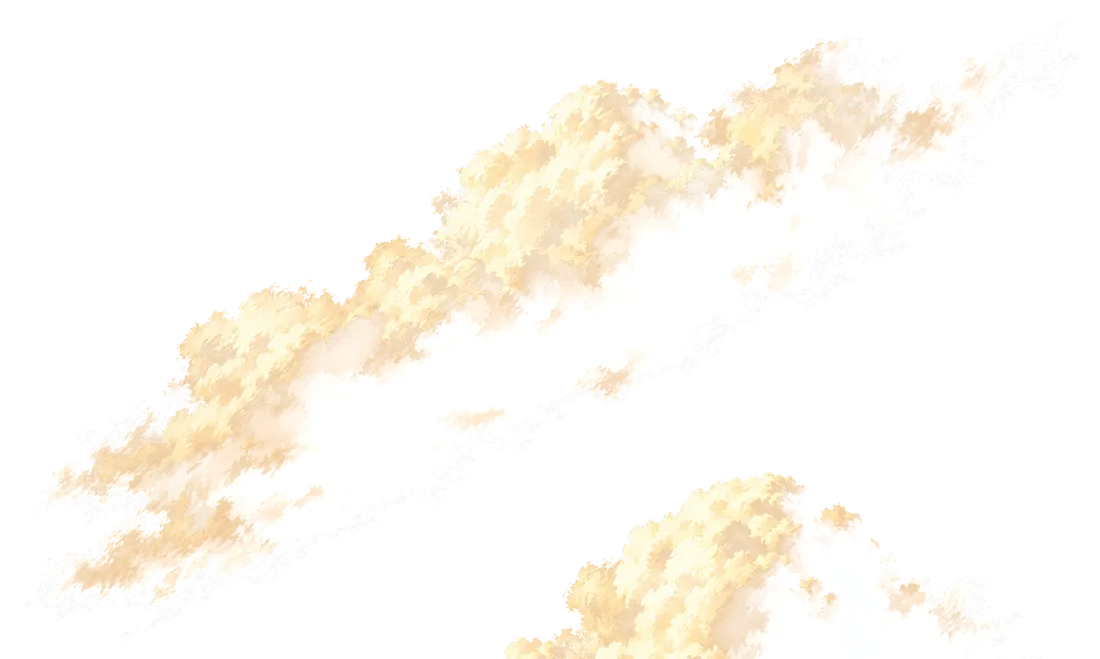
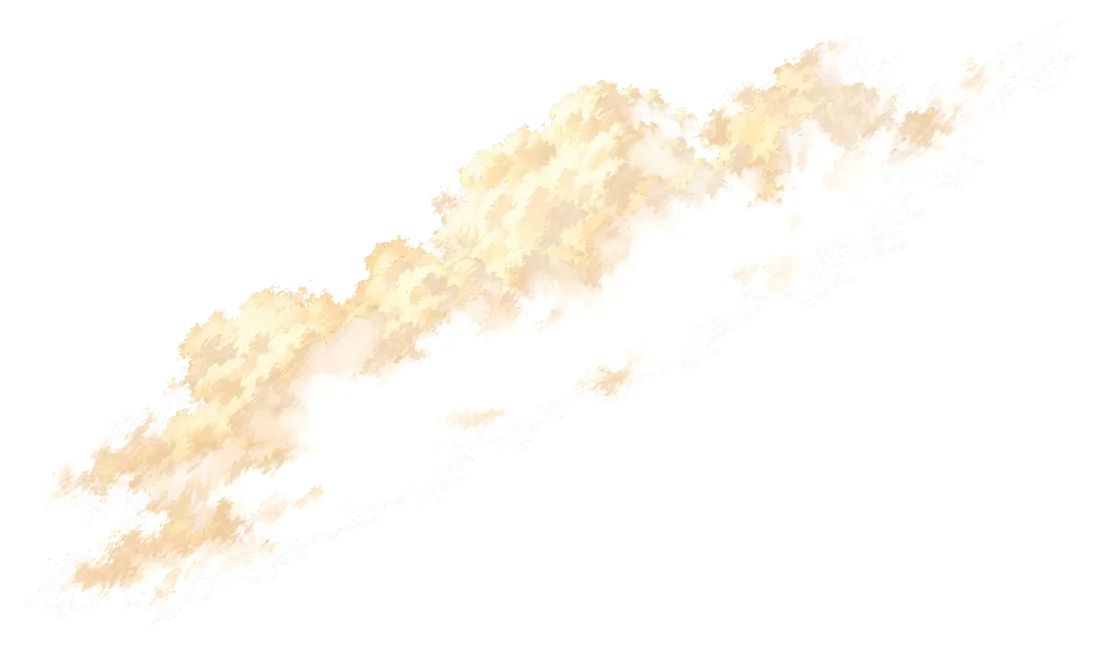
Clouds: clean the three sprites with a stray fragment, drop their masks

Changed region(s): [[0.4636, 0.698, 0.7727, 1.0], [0.8036, 0.8801, 0.8964, 0.9712]]

diff --git a/packages/ui/src/clouds.ts b/packages/ui/src/clouds.ts
@@ -98,14 +98,8 @@ const s = (name: string, w: number, h: number, mask?: string): CloudSprite => ({
 
 /** The day's three original clouds, seen from above. */
 const CLOUD = [s('cloud-day-1', 1024, 538), s('cloud-day-2', 1024, 614), s('cloud-day-3', 1024, 456)];
-/**
- * The two large billowing clouds. Each file has a stray fragment of another cloud cut by its edge
- * (day-1 bottom right, day-2 top left): masked off along the diagonal.
- */
-const BIG = [
-  s('bigcloud-day-1', 1100, 659, 'linear-gradient(to bottom right, #000 57%, transparent 63%)'),
-  s('bigcloud-day-2', 1100, 841, 'linear-gradient(to bottom right, transparent 12%, #000 20%)'),
-];
+/** The two large billowing clouds. */
+const BIG = [s('bigcloud-day-1', 1100, 659), s('bigcloud-day-2', 1100, 841)];
 const PUFF = [1, 2, 3, 4, 5, 6].map((n) => s(`puff-day-${n}`, 640, [291, 449, 375, 357, 375, 363][n - 1]!));
 const WISP = [
   s('wisp-day-1', 1200, 541),
@@ -115,12 +109,12 @@ const WISP = [
 ];
 const MIST = [s('mist-day-1', 1600, 571)];
 const FOG = [282, 410, 343, 345, 313, 361].map((h, i) => s(`fog-night-${i + 1}`, 1200, h));
-/** Night mist curls; day-4 has a fragment cut by its top right corner: masked off. */
+/** Night mist curls. */
 const CURL = [
   s('mistcurl-night-1', 800, 519),
   s('mistcurl-night-2', 800, 303),
   s('mistcurl-night-3', 768, 848),
-  s('mistcurl-night-4', 800, 417, 'linear-gradient(to bottom left, transparent 12%, #000 20%)'),
+  s('mistcurl-night-4', 800, 417),
   s('mistcurl-night-5', 800, 489),
 ];
 

diff --git a/packages/ui/test/clouds.test.tsx b/packages/ui/test/clouds.test.tsx
@@ -156,14 +156,12 @@ describe('the sky: three depths', () => {
     }
   });
 
-  it('the art with a fragment cut by its edge is masked', () => {
+  it('the art is clean: no sprite needs a mask', () => {
     const masked = [...CLOUDS.day, ...CLOUDS.night]
       .flatMap((d) => d.kinds.flatMap((k) => k.sprites))
       .filter((s) => s.mask)
       .map((s) => s.src);
-    expect(new Set(masked)).toEqual(
-      new Set(['/fx/bigcloud-day-1.webp', '/fx/bigcloud-day-2.webp', '/fx/mistcurl-night-4.webp']),
-    );
+    expect(masked).toEqual([]);
   });
 });
 

diff --git a/docs/design/maps-v3-integration.md b/docs/design/maps-v3-integration.md
@@ -300,7 +300,7 @@ The user playtested the v3 maps and asked for three things. No rule, number or e
 
 The user asked for semi-transparent clouds or fog rolling slowly over the city map "for a nice vibe", without regenerating the maps; then, after trying it, for "more shapes, clouds moving at different speeds, to be more immersive". No rule, number or economy value changes.
 
-- **Art:** 27 transparent WebP sprites in `apps/client/public/fx/` (static files, not in the art catalogue or its budget). Day: `cloud-day-1..3` (1024 px), `bigcloud-day-1..2` (1100 px), `puff-day-1..6` (640 px), `wisp-day-1..4` (high cirrus streaks), `mist-day-1` (1600 px). Night: `fog-night-1..6` (1200 px), `mistcurl-night-1..5` (800 px). Only the current time of day's files load, at `fetchpriority=low`: 700 ms after the map (its tiles go first), the high depth 1.5 s later still; a slot's next shape loads while it is off-screen. Three files carry a stray fragment of another sprite cut by their edge (`bigcloud-day-1` bottom right, `bigcloud-day-2` top left, `mistcurl-night-4` top right): a CSS mask along the diagonal hides it (`CloudSprite.mask`); the files are as made, and a clean re-export would let the masks go.
+- **Art:** 27 transparent WebP sprites in `apps/client/public/fx/` (static files, not in the art catalogue or its budget). Day: `cloud-day-1..3` (1024 px), `bigcloud-day-1..2` (1100 px), `puff-day-1..6` (640 px), `wisp-day-1..4` (high cirrus streaks), `mist-day-1` (1600 px). Night: `fog-night-1..6` (1200 px), `mistcurl-night-1..5` (800 px). Only the current time of day's files load, at `fetchpriority=low`: 700 ms after the map (its tiles go first), the high depth 1.5 s later still; a slot's next shape loads while it is off-screen. Three files had a stray fragment of another sprite cut by their edge (`bigcloud-day-1`, `bigcloud-day-2`, `mistcurl-night-4`); the files were cleaned on 2 Oct 2026 (only the main cloud kept), so no sprite uses `CloudSprite.mask` (kept for future art).
 - **Switch:** `City.clouds` in content (on for Coalport only) → `CityView.clouds` → `CityMap`'s `clouds` prop (`true` for the standard look, or a `CloudConfig`). Another city gets it with one line once the user approves the look.
 - **Layer:** `CloudLayer` (`packages/ui`), between the map art and the pins in `CityMap`, `pointer-events: none` and `aria-hidden`; the pins and overlays sit above it, so it never takes a tap. Not in the result or story map crops (they do not use `CityMap`).
 - **Depths:** each time of day is up to three depths, drawn low to high, each its own plane laid out on the at-rest box that follows the map's view with its own parallax (`cloudPlane`: a drag moves it 1 + p as far, a zoom grows it a^(1+p) about the same fixed point), with the map's own zoom transition. Higher is faster and moves more.
